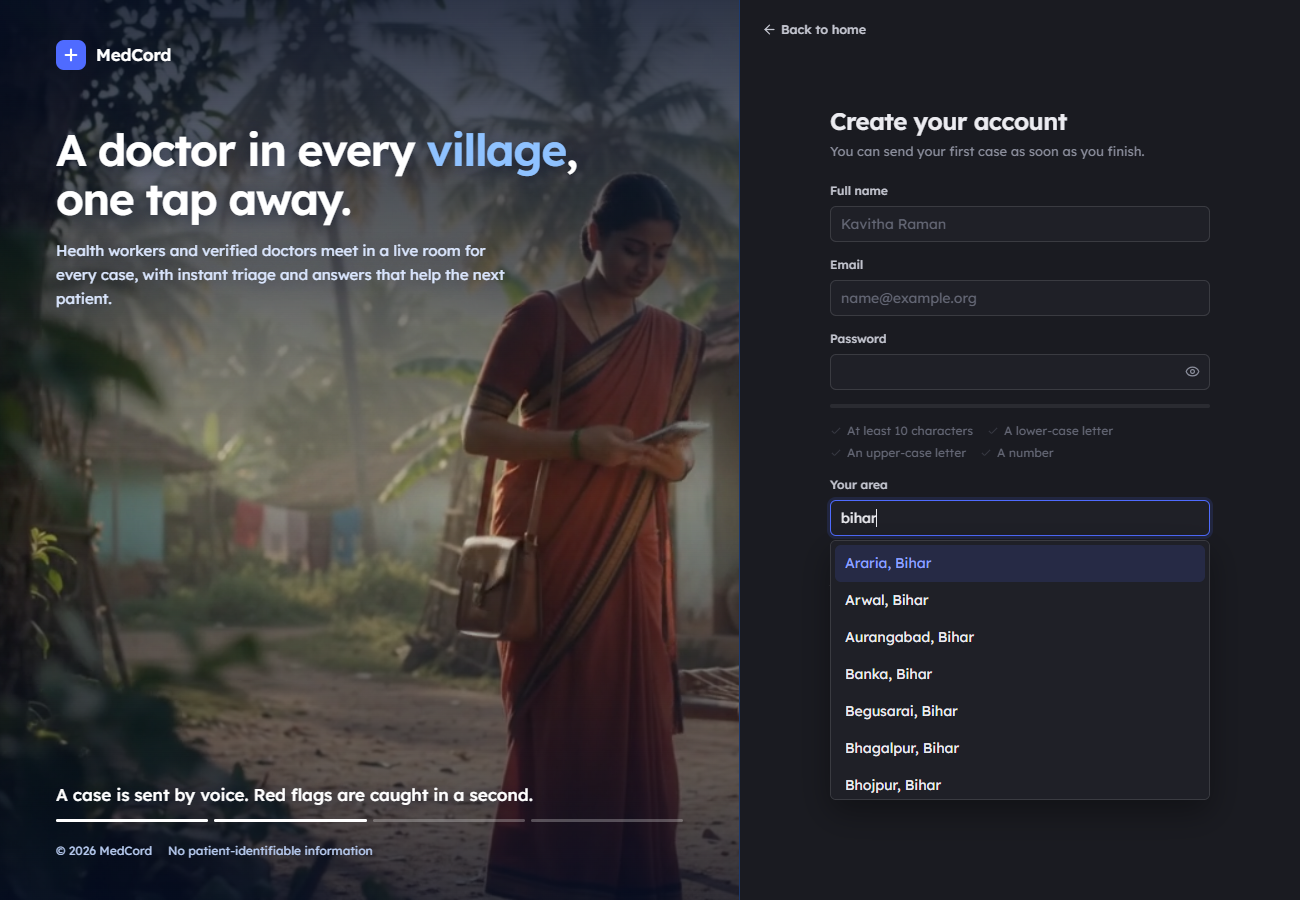
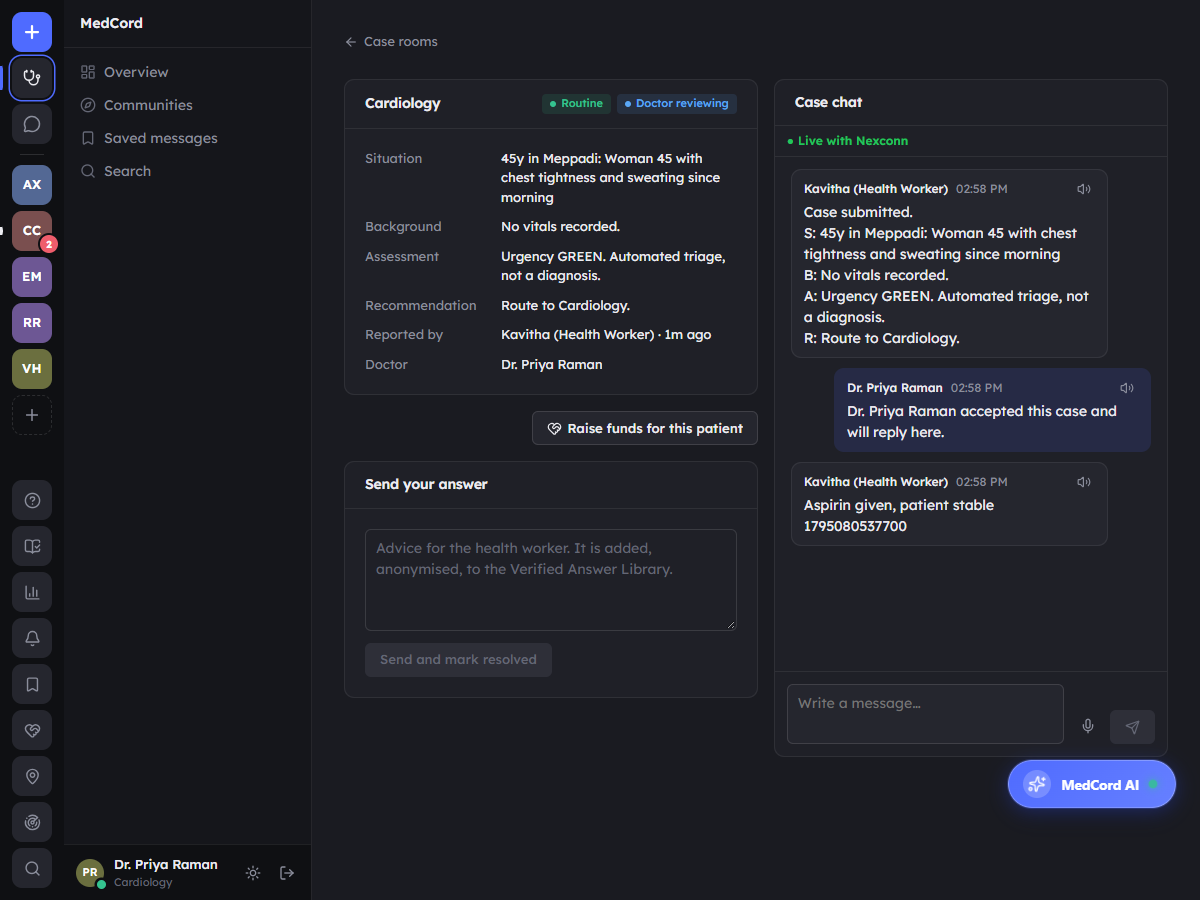
feat(chat): case chat live on the Nexconn Chat SDK

diff --git a/frontend/src/lib/nexconn.ts b/frontend/src/lib/nexconn.ts
@@ -1,0 +1,78 @@
+import { api } from '../api/client'
+
+/**
+ * Real-time layer on the Nexconn Chat SDK.
+ * MedCord's backend stays the source of truth for messages. Nexconn carries a small "new message" signal
+ * between the two people in a case room, so the other side updates the moment a message is sent.
+ */
+export type NexconnStatus = 'off' | 'connecting' | 'live' | 'failed'
+
+interface ChatToken { appKey: string; userId: string; token: string }
+type Chat = typeof import('@nexconn/chat')
+
+const PREFIX = 'medcord:'
+let status: NexconnStatus = 'off'
+let connecting: Promise<boolean> | null = null
+let sdk: Chat | null = null
+let myNexconnId: string | null = null
+const statusListeners = new Set<(s: NexconnStatus) => void>()
+const signalListeners = new Set<(channelId: string, from: string) => void>()
+
+const setStatus = (s: NexconnStatus) => { status = s; statusListeners.forEach((f) => f(s)) }
+export const nexconnStatus = () => status
+export const toNexconnId = (uuid: string) => uuid.replace(/-/g, '')
+
+export function onNexconnStatus(cb: (s: NexconnStatus) => void) { statusListeners.add(cb); cb(status); return () => { statusListeners.delete(cb) } }
+/** Called when the other person signals a new message in a channel. */
+export function onChannelSignal(cb: (channelId: string, from: string) => void) { signalListeners.add(cb); return () => { signalListeners.delete(cb) } }
+
+export function connectNexconn(): Promise<boolean> {
+  if (status === 'live') return Promise.resolve(true)
+  if (connecting) return connecting
+  setStatus('connecting')
+  connecting = (async () => {
+    try {
+      const { data } = await api.get<ChatToken>('/chat/token')
+      const mod = await import('@nexconn/chat')
+      if (!mod.NCEngine?.initialize || !mod.MessageHandler) throw new Error('Nexconn SDK is not available')
+      mod.NCEngine.initialize({ appKey: data.appKey, areaCode: mod.AreaCode?.SG })
+      mod.NCEngine.addMessageHandler('medcord', new mod.MessageHandler({
+        onMessageReceived: ({ messages }) => {
+          for (const m of messages) {
+            const text = (m.content as { text?: string } | undefined)?.text
+            if (typeof text === 'string' && text.startsWith(PREFIX)) signalListeners.forEach((f) => f(text.slice(PREFIX.length), m.senderUserId))
+          }
+        },
+      }))
+      const res = await mod.NCEngine.connect({ token: data.token })
+      if (!res.isOk) throw new Error('Nexconn connect failed')
+      sdk = mod; myNexconnId = data.userId
+      setStatus('live')
+      return true
+    } catch {
+      setStatus('failed')
+      return false
+    } finally {
+      connecting = null
+    }
+  })()
+  return connecting
+}
+
+export async function disconnectNexconn() {
+  try { await sdk?.NCEngine.disconnect() } catch { /* already gone */ }
+  sdk = null; myNexconnId = null
+  setStatus('off')
+}
+
+/** Tell the other person a new message is waiting in this channel. Best effort: the backend copy is what counts. */
+export async function signalPeer(peerUserId: string | null | undefined, channelId: string): Promise<boolean> {
+  if (!peerUserId || status !== 'live' || !sdk) return false
+  const peer = toNexconnId(peerUserId)
+  if (peer === myNexconnId) return false
+  try {
+    const channel = new sdk.DirectChannel(peer)
+    const res = await channel.sendMessage(new sdk.SendTextMessageParams({ text: PREFIX + channelId }))
+    return Boolean(res.isOk)
+  } catch { return false }
+}

diff --git a/frontend/src/components/cases/CaseChat.tsx b/frontend/src/components/cases/CaseChat.tsx
@@ -6,11 +6,15 @@ import { listMessages, sendMessage } from '../../api/messages'
 import type { Message } from '../../api/messages'
 import { problemMessage } from '../../api/client'
 import { canDictate, canSpeak, dictate, speak } from '../../lib/speech'
+import { connectNexconn, onChannelSignal, onNexconnStatus, signalPeer } from '../../lib/nexconn'
+import type { NexconnStatus } from '../../lib/nexconn'
 
-const POLL_MS = 4000
+const POLL_MS = 4000          // slow safety net; Nexconn delivers new messages instantly
+const POLL_LIVE_MS = 20000
 
 /** Compact chat for a case room. Messages go through the backend; read-aloud uses the browser's speech engine. */
-export function CaseChat({ channelId, lang, meId, readOnly }: { channelId: string; lang: string; meId: string; readOnly?: boolean }) {
+export function CaseChat({ channelId, lang, meId, peerId, readOnly }: { channelId: string; lang: string; meId: string; peerId?: string | null; readOnly?: boolean }) {
+  const [live, setLive] = useState<NexconnStatus>('off')
   const [messages, setMessages] = useState<Message[]>([])
   const [text, setText] = useState('')
   const [error, setError] = useState<string | null>(null)
@@ -27,11 +31,14 @@ export function CaseChat({ channelId, lang, meId, readOnly }: { channelId: strin
     } catch { /* keep what we have; the next poll retries */ }
   }, [channelId])
 
+  useEffect(() => { void connectNexconn(); return onNexconnStatus(setLive) }, [])
+  useEffect(() => onChannelSignal((ch) => { if (ch === channelId) void load() }), [channelId, load])
+
   useEffect(() => {
     void load()
-    const t = setInterval(() => { if (document.visibilityState !== 'hidden') void load() }, POLL_MS)
+    const t = setInterval(() => { if (document.visibilityState !== 'hidden') void load() }, live === 'live' ? POLL_LIVE_MS : POLL_MS)
     return () => { clearInterval(t); stopRef.current?.() }
-  }, [load])
+  }, [load, live])
 
   useEffect(() => {
     if (messages.length !== count.current) {
@@ -45,7 +52,7 @@ export function CaseChat({ channelId, lang, meId, readOnly }: { channelId: strin
     const body = text.trim()
     if (!body || sending) return
     setSending(true); setError(null)
-    try { await sendMessage(channelId, body); setText(''); await load() } catch (err) { setError(problemMessage(err)) } finally { setSending(false) }
+    try { await sendMessage(channelId, body); setText(''); void signalPeer(peerId, channelId); await load() } catch (err) { setError(problemMessage(err)) } finally { setSending(false) }
   }
 
   function toggleMic() {
@@ -57,6 +64,7 @@ export function CaseChat({ channelId, lang, meId, readOnly }: { channelId: strin
 
   return (
     <div className="mc-casechat">
+      <div className={`mc-live mc-live-${live}`} role="status">{live === 'live' ? '● Live with Nexconn' : live === 'connecting' ? 'Connecting…' : 'Updating every few seconds'}</div>
       <div className="mc-casechat-msgs" ref={scroller} aria-live="polite">
         {messages.length === 0 && <p className="mc-muted-sub" style={{ padding: 16 }}>No messages yet.</p>}
         {messages.map((m) => (

diff --git a/frontend/src/context/AuthContext.tsx b/frontend/src/context/AuthContext.tsx
@@ -3,6 +3,7 @@ import type { ReactNode } from 'react'
 import * as authApi from '../api/auth'
 import type { Me, RegisterInput } from '../api/auth'
 import { tokenStore } from '../api/client'
+import { disconnectNexconn } from '../lib/nexconn'
 
 interface AuthState {
   user: Me | null
@@ -40,6 +41,7 @@ export function AuthProvider({ children }: { children: ReactNode }) {
     setUser(await authApi.fetchMe())
   }, [])
   const signOut = useCallback(async () => {
+    void disconnectNexconn()
     await authApi.logout()
     setUser(null)
   }, [])

diff --git a/frontend/vite.config.ts b/frontend/vite.config.ts
@@ -10,8 +10,8 @@ export default defineConfig({
   plugins: [react()],
   resolve: {
     alias: {
-      // Stub out Nexconn SDKs until the real packages are installed
-      '@nexconn/chat': resolve(__dirname, 'src/lib/nexconn-chat-stub.ts'),
+      // Chat uses the real Nexconn SDK. Tests and the call feature keep the stubs.
+      ...(process.env.VITEST ? { '@nexconn/chat': resolve(__dirname, 'src/lib/nexconn-chat-stub.ts') } : {}),
       '@nexconn/call': resolve(__dirname, 'src/lib/nexconn-call-stub.ts'),
     },
   },

diff --git a/frontend/src/pages/cases/CaseRoom.tsx b/frontend/src/pages/cases/CaseRoom.tsx
@@ -106,7 +106,7 @@ export default function CaseRoom() {
 
         <Card>
           <div className="mc-card-head"><h2>Case chat</h2></div>
-          <CaseChat channelId={c.channelId} lang={lang} meId={user.id} readOnly={c.status === 'CLOSED'} />
+          <CaseChat channelId={c.channelId} lang={lang} meId={user.id} peerId={user.id === c.reporterId ? c.assignedDoctorId : c.reporterId} readOnly={c.status === 'CLOSED'} />
         </Card>
       </div>
     </main>

diff --git a/frontend/src/styles/cases.css b/frontend/src/styles/cases.css
@@ -72,3 +72,6 @@
   .mc-bar-row { grid-template-columns: 110px minmax(0, 1fr) 70px; }
   .mc-grid-2 { grid-template-columns: minmax(0, 1fr); }
 }
+
+.mc-live { font-size: 12px; padding: 6px 12px; color: var(--mc-text-2); border-bottom: 1px solid var(--mc-border); }
+.mc-live-live { color: #22c55e; font-weight: 600; }

diff --git a/docs/PROGRESS.md b/docs/PROGRESS.md
@@ -85,7 +85,7 @@ Health workers send a case; verified specialists answer in a per-case chat room.
 - [x] T-025 Case room schema: cases, attachments, answers, follow-ups, availability, regions, specialties, red-flag rules, timeline, AI audit log, notifications, impact views; RLS on every table (V12–V14)
 - [x] T-026 Case API: submit with rule-based triage (red flags, vitals, specialty), routing to on-duty doctors, accept/answer/follow-up, escalation job, Verified Answer Library, impact, notifications
 - [x] T-027 Case UI: new case (symptom tiles, voice dictation in 7 languages, offline queue), doctor queue, case room with chat and read-aloud, library, impact dashboard
-- [ ] T-028 Wire the case chat to the Nexconn Chat SDK (currently backend polling every 4s)
+- [x] T-028 Case chat is live on the Nexconn Chat SDK (direct-channel signal between reporter and doctor; backend stays the record; polling is only a 20 s safety net). Verified with two browsers
 - [ ] T-029 Translate replies for the health worker (needs an LLM key); non-English red-flag detection
 - [ ] T-030 Case photo and voice-note attachments (builds on T-020)
 
